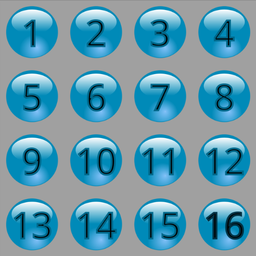
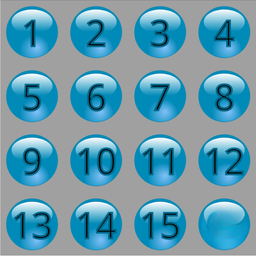
asd

Changed region(s): [[0.0, 0.8125, 1.0, 1.0]]

diff --git a/Key_And_Mouse/src/Puzzle/PuzzlePanel.java b/Key_And_Mouse/src/Puzzle/PuzzlePanel.java
@@ -12,6 +12,7 @@ public class PuzzlePanel extends JPanel implements MouseListener
 {
     private JButton[][] butons = new JButton[4][4];
     private BufferedImage image = ImageIO.read(new File("src\\Puzzle\\spongebob.png"));
+    private BufferedImage black = ImageIO.read(new File("src\\Puzzle\\black.png"));
     private BufferedImage[][] images = new BufferedImage[4][4];
     private BufferedImage[][] numbers = new BufferedImage[4][4];
     private JLabel moveCount = new JLabel("Move Count: 0");
@@ -20,7 +21,7 @@ public class PuzzlePanel extends JPanel implements MouseListener
     private JLabel winMessage = new JLabel("You solved the puzzle in __ moves!");
     private String[] messagesOfEncouragement = {"Keep going! You got this!", "Almost there!",
             "Take a deep breath and remember how far you've come!",
-            "Trust yourself-you're on the right path", "This is tough, but you're tougher!", "One tile at a time!"};
+            "Trust yourself, you're on the right path", "This is tough, but you're tougher!", "One tile at a time!"};
 
     private PuzzleBoard board;
 
@@ -35,7 +36,7 @@ public class PuzzlePanel extends JPanel implements MouseListener
         board = new PuzzleBoard();
         loadImage();
         loadNumber();
-        winMessage.setText(messagesOfEncouragement[(int) (Math.random()* messagesOfEncouragement.length)]);
+        winMessage.setText(messagesOfEncouragement[(int) (Math.random()*messagesOfEncouragement.length)]);
         winMessage.setBounds(0, 570, 500, 30);
         winMessage.setHorizontalAlignment(JLabel.CENTER);
         winMessage.setFont(new Font(Font.SANS_SERIF, Font.BOLD, 15));
@@ -73,10 +74,12 @@ public class PuzzlePanel extends JPanel implements MouseListener
             addKeyListener(new KeyAdapter() {
                 @Override
                 public void keyTyped(KeyEvent e) { //not needed, extra
-                    super.keyTyped(e);
+//                    super.keyTyped(e);
                     int code = e.getKeyCode();
+                    System.out.println(e.getKeyCode());
                     if (code == KeyEvent.VK_S) {
                         //code to show the solved version
+                        System.out.println("s: " + code);
                     }
                 }
             });
@@ -103,13 +106,13 @@ public class PuzzlePanel extends JPanel implements MouseListener
         });
         //new game
         newGame.addActionListener(e -> {
-            if (gameWon) //set as "true" for testing purposes
+            if (gameWon) //set as "true" for testing purposes otherwise gameWon
             {
                 board.shuffle();
                 moves = 0;
                 gameWon = false;
                 moveCount.setText("Move Count: 0");
-                winMessage.setText("__");
+                winMessage.setText(messagesOfEncouragement[(int) (Math.random()*messagesOfEncouragement.length)]);
                 updateBoard();
             }
         });
@@ -133,7 +136,10 @@ public class PuzzlePanel extends JPanel implements MouseListener
         PuzzleSquare puzzleSquare = new PuzzleSquare("src\\Puzzle\\spongebob.png");
         for (int r = 0; r < 4; r++)
             for (int c = 0; c < 4; c++)
-                images[r][c] = puzzleSquare.getPortion(r, c);
+                if (r == 3 && c == 3)
+                    images[r][c] = black;
+                else images[r][c] = puzzleSquare.getPortion(r, c);
+
     }
 
     private void loadNumber() throws IOException
@@ -154,12 +160,13 @@ public class PuzzlePanel extends JPanel implements MouseListener
             moves++;
             moveCount.setText("Move Count: " + moves);
             updateBoard();
+            winMessage.setText(messagesOfEncouragement[(int) (Math.random()*messagesOfEncouragement.length)]);
             if (board.isSolved())
             {
                 gameWon = true;
                 winMessage.setText("You solved the puzzle in " + moves + " moves!");
 
-                JOptionPane.showMessageDialog(this, "You solved the puzzle in " + moves + " moves!");
+//                JOptionPane.showMessageDialog(this, "You solved the puzzle in " + moves + " moves!");
             }
         }
     }
@@ -172,9 +179,10 @@ public class PuzzlePanel extends JPanel implements MouseListener
                 if (val == 0)
                 {
                     butons[r][c].setText("");
-                    Image scaled = numbers[3][3].getScaledInstance(125, 125, Image.SCALE_SMOOTH);
-                    butons[r][c].setIcon(new ImageIcon(scaled));
-                    butons[r][c].setIcon(null);
+                    Image scaled = imageMode ? images[3][3].getScaledInstance(125, 125, BufferedImage.SCALE_SMOOTH) : numbers[3][3].getScaledInstance(125, 125, Image.SCALE_SMOOTH);
+                    ImageIcon ii = new ImageIcon(scaled);
+                    butons[r][c].setIcon(ii);
+//                    butons[r][c].setIcon(null);
                 }
                 else
                 {
@@ -185,13 +193,13 @@ public class PuzzlePanel extends JPanel implements MouseListener
 
                         int w = butons[r][c].getWidth();
                         int h = butons[r][c].getHeight();
-                        System.out.println(w + ":" + h);
+//                        System.out.println(w + ":" + h);
                         if (w <= 0 || h <= 0) {
                             Dimension d = butons[r][c].getPreferredSize();
                             w = d.width;
                             h = d.height;
                         }
-                        System.out.println(w + ":" + h);
+//                        System.out.println(w + ":" + h);
 
                         Image scaled = numbers[row][col].getScaledInstance(125, 125, Image.SCALE_SMOOTH);
                         butons[r][c].setIcon(new ImageIcon(scaled));

diff --git a/Key_And_Mouse/src/Puzzle/PuzzleBoard.java b/Key_And_Mouse/src/Puzzle/PuzzleBoard.java
@@ -31,6 +31,7 @@ public class PuzzleBoard
                         zeroC = c;
                     }
                 }
+            if (!isSolvable()) System.out.println("It was not solvable");
         } while (!isSolvable());
     }
 
